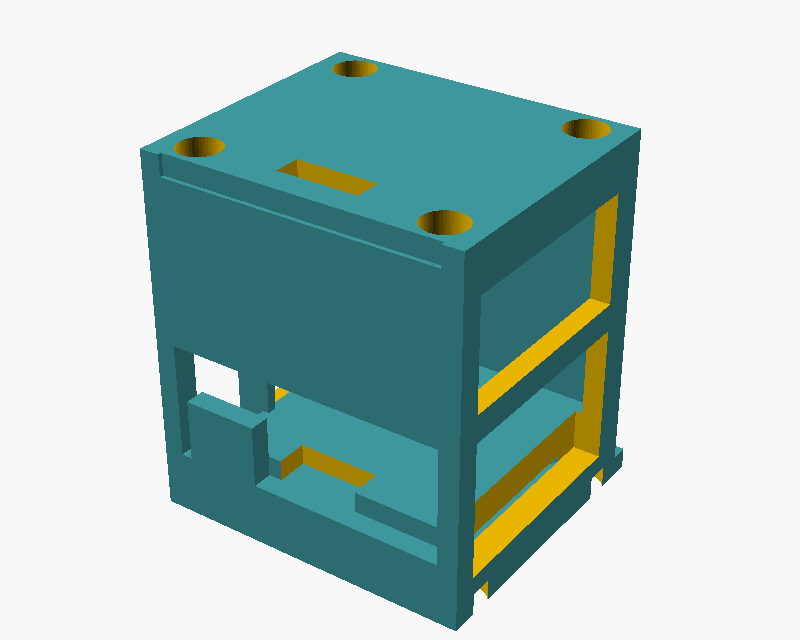
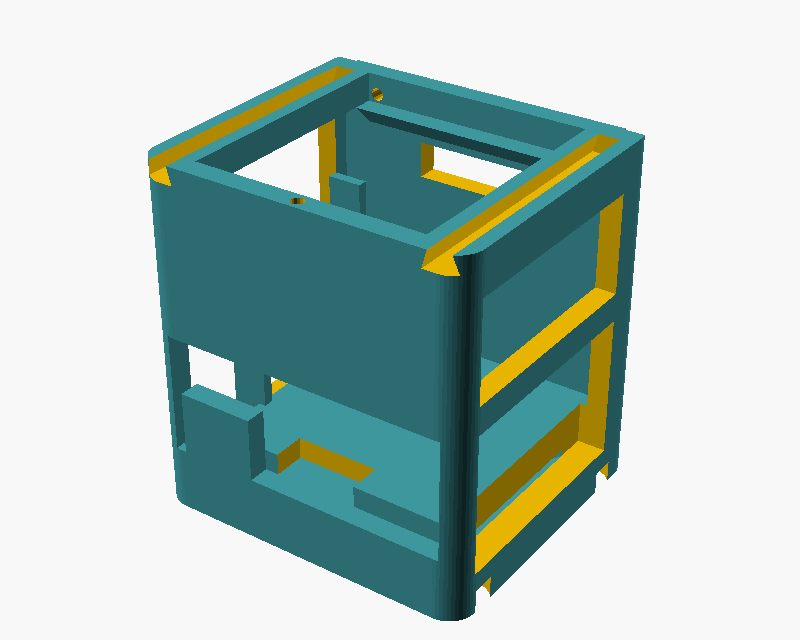
Removable crown on dovetail rails; fix rack/collar corner clash
The rack's top is now a separate crown that slides in from the back on
two dovetail rails, so the rack can be wired from above. The shell
magnets move into the 4 mm crown. Interference check of every mating
pair found the rack corners digging into the collar's R4 opening; the
rack footprint now has R3.8 corners.

diff --git a/docs/assembly.md b/docs/assembly.md
@@ -17,7 +17,7 @@ The second magnet ends up facing the correct way automatically. Mark the north f
 |---|---|
 | Lid ↔ base | 4 in the lid top, 4 in the base corner posts |
 | Base ↔ rack | 4 in the base deck, 4 under the rack floor |
-| Rack ↔ shell | 4 on the rack crown, 4 in the shell ceiling pads |
+| Crown ↔ shell | 4 on top of the crown, 4 in the shell ceiling pads |
 
 ## 2. Collar pins
 
@@ -25,16 +25,21 @@ Push four 5 mm pieces of 1.75 mm filament into the pin holes on top of the base.
 
 ## 3. Load the rack
 
+Slide the **crown** out towards the back first (remove the lock screw if you fitted it). The rack is then open from above, which is how you reach the ESP32's pin headers.
+
+
 1. **OLED:** screw it to the front carrier with 4 × M2 screws, with the header pins at the top. Feed the wires through the slot above it.
 2. **LED:** push it into the hole under the screen from behind.
 3. **ESP32-C3 + expansion board:** on the shelf, USB-C facing the back.
 4. **Speaker:** slide it between the two ribs on the right frame, cone facing out.
 5. **Amp:** on the inside of the rear wall, above the USB port.
 6. **SW420:** on the left frame.
-7. **Mic and touch:** on top of the crown. The mic goes at the front, under the pinhole. Route both cables down through the crown slot.
+7. **Mic and touch:** stick them on top of the crown (mic at the front, under the pinhole) and pass their cables down through the crown slot.
 8. **Switch:** in the bracket at the back, next to the USB-C port.
 
-Wire everything as shown in [Wiring](wiring.md). Double-sided foam tape or a dab of hot glue holds the small modules well.
+Wire everything as shown in [Wiring](wiring.md) while the top is open. Double-sided foam tape or a dab of hot glue holds the small modules well.
+
+9. **Close the top:** slide the crown in from the back along the two rails until it stops at the front. Optionally fit one M2 screw through the hole at the back to lock it.
 
 ## 4. Stack it
 

diff --git a/README.md b/README.md
@@ -30,6 +30,7 @@
 | **Outer shell** | Rounded 56 × 52 mm skin with the screen window, mic pinhole, LED hole, speaker grille, USB and switch cutouts. Snaps to the rack crown with 4 magnets. |
 | **Interface collar** | The separate lip between base and shell. Located by filament pins, clamped by the shell. Print it in an accent colour. |
 | **Inner rack** | Reinforced PLA frame (3 mm walls, gussets) that carries every electronic part. |
+| **Crown** | The rack's removable top. Slides in from the back on dovetail rails and carries the mic, touch sensor and shell magnets. Slide it out and the whole rack is open from above for wiring. |
 | **Battery base + lid** | Holds a 503040 LiPo. Snaps to the rack with 4 magnets; the lid snaps on with 4 more. |
 
 ## Repository layout
@@ -39,7 +40,7 @@ sparky/
 ├── cad/                 OpenSCAD source (edit config.scad first)
 │   ├── config.scad      all dimensions + the module interface spec
 │   ├── sparky.scad      assembly and part selector
-│   └── parts/           shell, collar, rack, base, lid
+│   └── parts/           shell, collar, rack, crown, base, lid
 ├── .github/workflows/   CI: builds STLs, renders and firmware; publishes releases
 ├── firmware/            PlatformIO project for the ESP32-C3
 ├── hardware/            BOM, wiring diagram, pin map

diff --git a/docs/interface.md b/docs/interface.md
@@ -8,10 +8,11 @@ Any part that keeps these dimensions works with the rest of Sparky. All values l
 | Battery base height | 12 mm (deck top) |
 | Collar | 4 mm band + 2 mm locating ridge, 4 pin holes |
 | Shell | bottom at Z 16, top at Z 70, 2 mm wall |
-| Rack | 47.2 × 43.2 mm, Z 12 to 65 |
+| Rack | 47.2 × 43.2 mm (R3.8 corners), Z 12 to 62 |
+| Crown | 46 × 40.6 mm, Z 62 to 66, slides in from +Y on dovetails at X ±20.1 |
 | Magnets | 6 × 3 mm, pockets 6.2 × 3.2 mm, all N faces up |
 | Base ↔ rack magnets | (±21, −14), (±21, 16) |
-| Rack ↔ shell magnets | (±18, −15), (±18, 17) at Z 65 |
+| Crown ↔ shell magnets | (±17, −15), (±17, 17) at Z 66 |
 | Lid ↔ base magnets | (±21, ±19) |
 | Collar pins | (±25.9, 0), (0, ±23.9), 1.75 mm filament |
 

diff --git a/docs/printing.md b/docs/printing.md
@@ -7,6 +7,7 @@ Download the STLs from the [latest release](https://github.com/slahiri/sparky/re
 | Outer shell | `sparky_shell.stl` | Open side down | The ceiling is a ~48 mm bridge; enable bridge cooling, or add tree supports inside |
 | Interface collar | `sparky_collar.stl` | Flat | Accent colour looks great |
 | Inner rack | `sparky_rack.stl` | Upright on its floor | Structural: see settings below |
+| Crown | `sparky_crown.stl` | Top face down, tongues up | Same settings as the rack. Check the tongues slide in the rack's grooves before gluing magnets |
 | Battery base | `sparky_base.stl` | Deck down | No supports needed |
 | Battery lid | `sparky_lid.stl` | Flat | |
 

diff --git a/docs/bom.md b/docs/bom.md
@@ -16,7 +16,7 @@ The full list with example links is in [hardware/bom.csv](https://github.com/sla
 | 1 | SPDT slide switch | Battery on/off |
 | 1 | LiPo 503040, about 600 mAh | Optional. Check plug and polarity |
 | 24 | 6 × 3 mm neodymium magnets | 12 pairs |
-| 4 | M2 × 8 self-tapping screws | OLED to rack |
+| 5 | M2 × 8 self-tapping screws | 4 for the OLED, 1 optional crown lock |
 | 4 | 1.75 mm filament, about 5 mm long | Collar locating pins |
 | ~20 | Female–female Dupont wires | |
 

diff --git a/CHANGELOG.md b/CHANGELOG.md
@@ -1,5 +1,12 @@
 # Changelog
 
+## Unreleased
+
+- Removable crown: the rack's top is now a separate part that slides in from the back on dovetail rails, so the rack can be wired from above
+- Shell magnets moved into the crown at (±17, −15) and (±17, 17); crown is 4 mm thick
+- Fixed: rack corners clashed with the collar's rounded opening (rack now has R3.8 corners)
+- Speaker cradle lowered to clear the new rail bars
+
 ## v0.1.0 - 2026-10-16
 
 First public draft.
